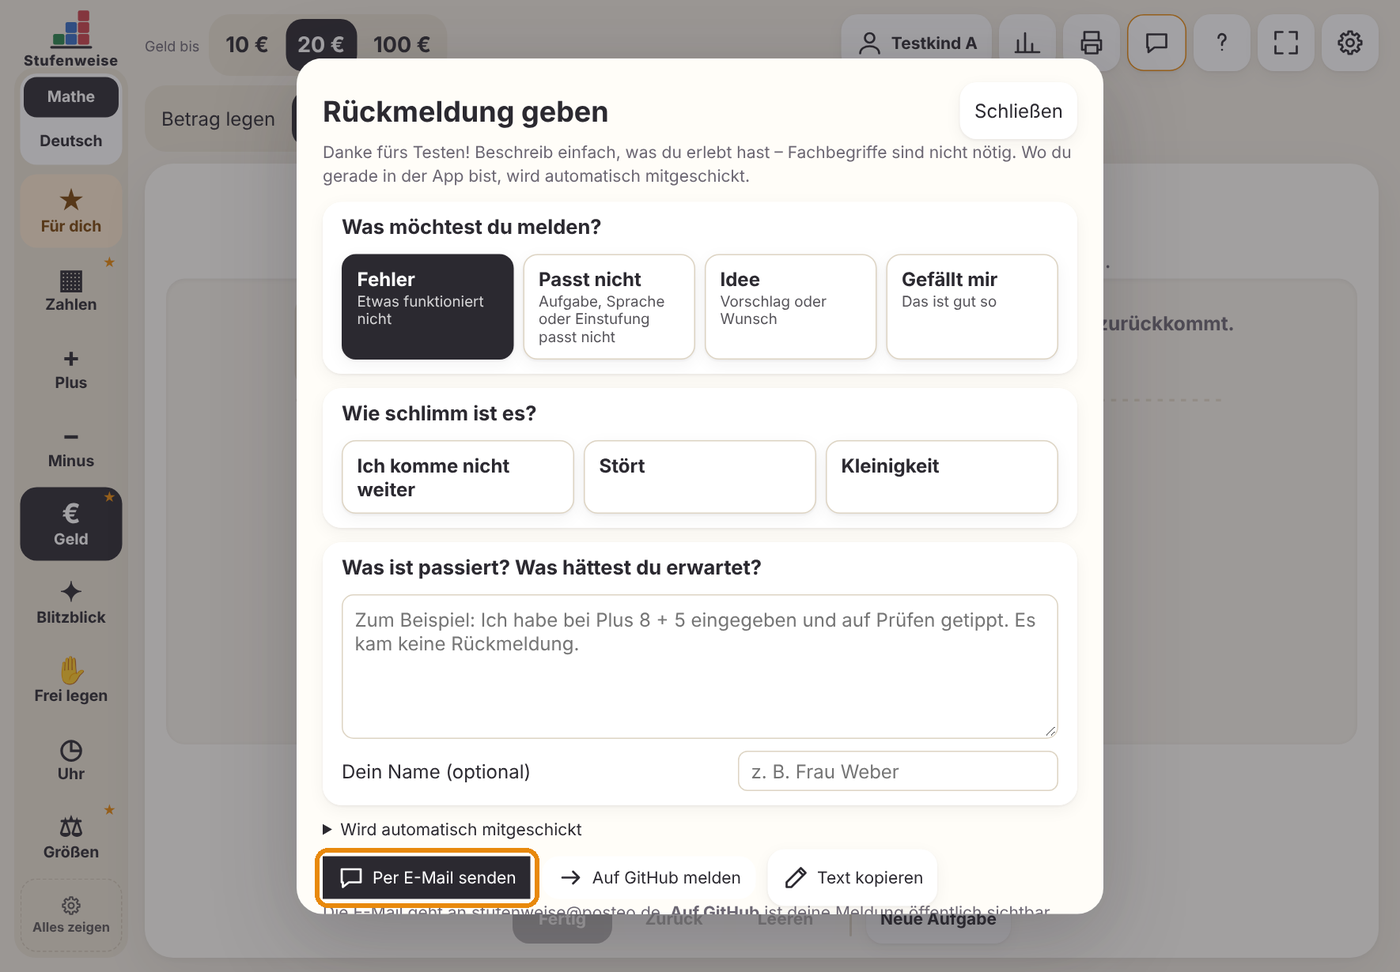
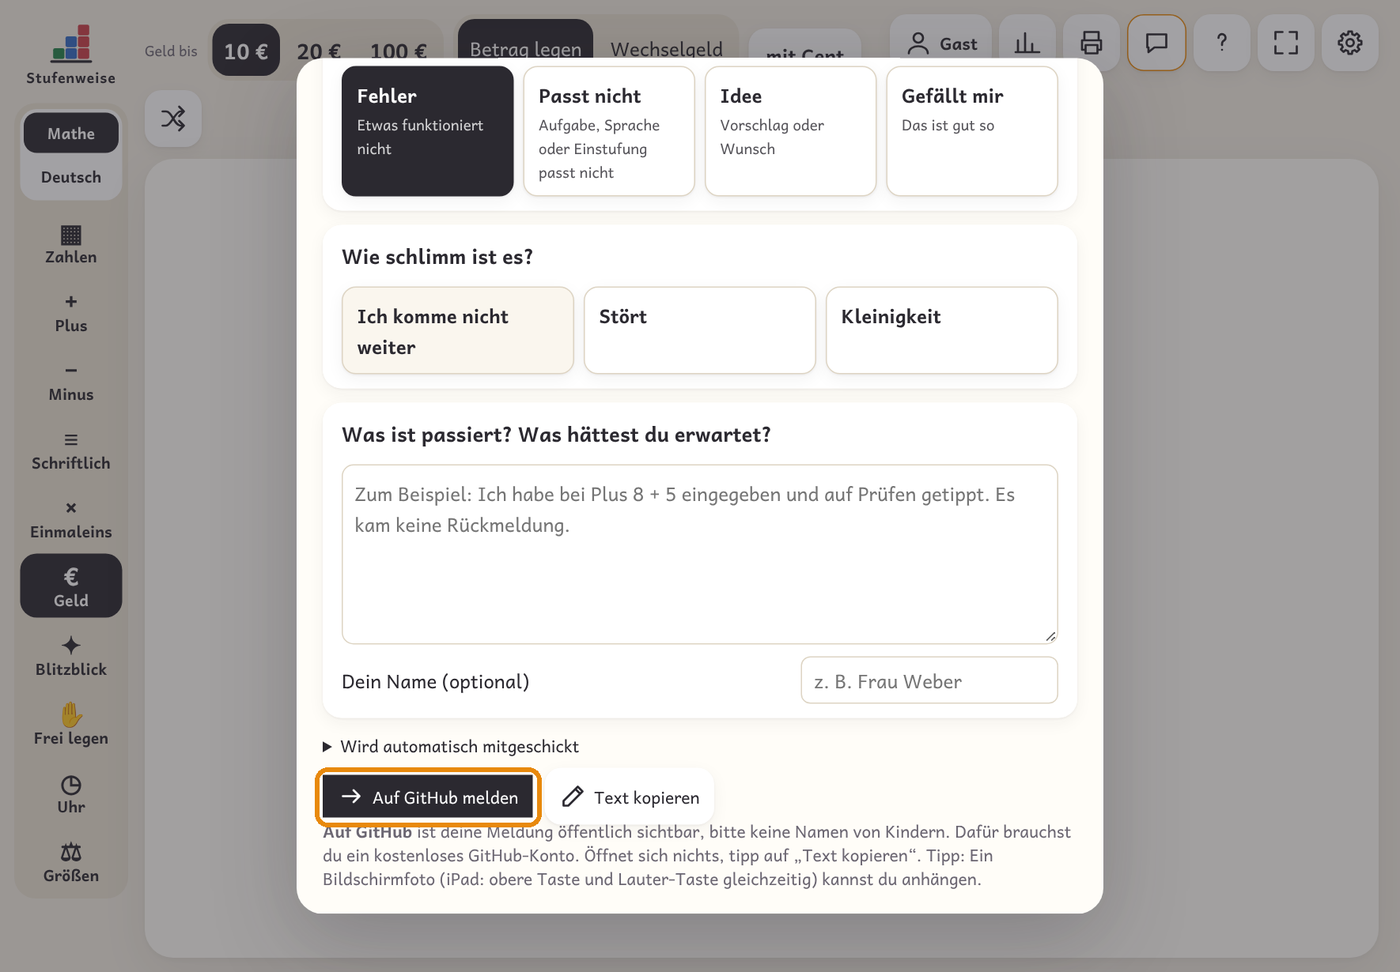
Projekt-E-Mail-Adresse entfernt: Rückmeldungen über GitHub, eigene Adresse optional in den Einstellungen
Claude-Session: https://claude.ai/code/session_01EfzymwAbpKsU1A9roa6mnc

diff --git a/index.html b/index.html
@@ -658,7 +658,8 @@ a.icon-btn{text-decoration:none}a.icon-btn:not(.primary){background:#fff;color:v
   <fieldset><legend>Ergebnisse</legend>
     <label class="row cb"><input type="checkbox" data-key="allowResults"> Ergebnisse und Mengen anzeigen erlauben</label>
     <label class="row cb"><input type="checkbox" data-key="fbOn"> Knopf „Rückmeldung“ anzeigen</label>
-    <label class="row">Rückmeldungen per E-Mail an <input type="email" data-key="fbMail" placeholder="leer = nur über GitHub" autocomplete="off" style="flex:1;max-width:260px"></label>
+    <label class="row">Rückmeldungen zusätzlich per E-Mail an <input type="email" data-key="fbMail" placeholder="leer = nur über GitHub" autocomplete="off" style="flex:1;max-width:260px"></label>
+    <p class="note">Rückmeldungen gehen über GitHub (öffentliche Meldung, kostenloses Konto nötig). Wer zusätzlich per E-Mail sammeln möchte, zum Beispiel an die Testleitung an der eigenen Schule, trägt hier eine Adresse ein. Sie bleibt nur auf diesem Gerät.</p>
     <p class="note">Aus: Die Kinder rechnen selbst. Ergebnis, Gesamtmenge und Ziffern unter der Tafel bleiben verborgen. „Ergebnis prüfen“ geht trotzdem.</p>
     <label class="row cb"><input type="checkbox" data-key="digits"> Ziffern unter der Stellenwerttafel</label>
     <label class="row cb"><input type="checkbox" data-key="numberWords"> Zahlwort zeigen (Zahlen-Modus)</label>
@@ -750,11 +751,11 @@ const FREE_COLORS = ['#c9414a','#346bc3','#27834b','#bd7618','#8054ad','#b0477c'
 const FREE_COLOR_NAMES = ['Rot','Blau','Grün','Orange','Lila','Pink'];
 const reduced = () => matchMedia('(prefers-reduced-motion: reduce)').matches || !Element.prototype.animate;
 
-const DEFAULTS = {fbMail:'stufenweise@posteo.de', allowResults:false, digits:true, numberWords:true, colors:'montessori', words:'exchange', exchangeMode:'select', subMode:'self', zones:true, help:true, speech:false, labels:true, ten:'any', hundred:'any', lock:false, timesRows:[2,5,10], wrMaterial:true, voice:'', rate:'0.9', subject:'M', lastMath:'number', numpad:'auto', ownWords:'', guide:'plus', fbOn:true, fbName:''};
+const DEFAULTS = {fbMail:'', allowResults:false, digits:true, numberWords:true, colors:'montessori', words:'exchange', exchangeMode:'select', subMode:'self', zones:true, help:true, speech:false, labels:true, ten:'any', hundred:'any', lock:false, timesRows:[2,5,10], wrMaterial:true, voice:'', rate:'0.9', subject:'M', lastMath:'number', numpad:'auto', ownWords:'', guide:'plus', fbOn:true, fbName:''};
 const STORE = 'stufenweise.settings';
 /* Übernahme aus dem alten Arbeitstitel: vorhandene Daten einmalig in die neuen Schlüssel kopieren */
 try { for(const [n, o] of [['stufenweise.settings', 'zahlenraum-werkstatt.v2'], ['stufenweise.data', 'zahlenraum-werkstatt.data']]){ if(localStorage.getItem(n) == null && localStorage.getItem(o) != null){ localStorage.setItem(n, localStorage.getItem(o)); localStorage.removeItem(o); } } } catch {}
-const settings = (() => { try { const st = JSON.parse(localStorage.getItem(STORE) || '{}'); if(!st.v3){ delete st.colors; st.v3 = true; } if(!st.v4){ delete st.speech; st.v4 = true; } return {...DEFAULTS, ...st}; } catch { return {...DEFAULTS}; } })();
+const settings = (() => { try { const st = JSON.parse(localStorage.getItem(STORE) || '{}'); if(!st.v3){ delete st.colors; st.v3 = true; } if(!st.v4){ delete st.speech; st.v4 = true; } if(!st.v5){ if(String(st.fbMail || '').includes('posteo.de')) st.fbMail = ''; st.v5 = true; } return {...DEFAULTS, ...st}; } catch { return {...DEFAULTS}; } })();
 settings.v3 = true; settings.v4 = true;
 const saveSettings = () => { try { localStorage.setItem(STORE, JSON.stringify(settings)); } catch {} };
 
@@ -5628,11 +5629,11 @@ $('#btn-settings').addEventListener('click', () => requireTeacher(openSettings))
 document.addEventListener('change', e => { const s = e.target.closest('[data-guide-pid]'); if(!s) return; const p = data.profiles.find(x => x.id === s.dataset.guidePid); if(p){ p.guide = s.value || undefined; saveData(); render(); } });
 
 /* ---------- Rückmeldung (Testphase): Art, Schwere, Text + automatischer Kontext → E-Mail ---------- */
-const APP_VERSION = '0.9.6 · 11.11.2026';
+const APP_VERSION = '0.9.7 · 11.11.2026';
 /* Danke-Seite: Namen nur mit Einverständnis eintragen, z. B. 'Vorname Nachname (Schule)' */
 const THANKS = [];
 const FB_REPO = 'https://github.com/Steffinuss/stufenweise';
-const fbMail = () => (settings.fbMail ?? 'stufenweise@posteo.de').trim();
+const fbMail = () => String(settings.fbMail || '').trim();
 const FB_ART = [['fehler', 'Fehler', 'Etwas funktioniert nicht'], ['passung', 'Passt nicht', 'Aufgabe, Sprache oder Einstufung passt nicht'], ['idee', 'Idee', 'Vorschlag oder Wunsch'], ['lob', 'Gefällt mir', 'Das ist gut so']];
 const FB_SEV = [['blockiert', 'Ich komme nicht weiter'], ['stoert', 'Stört'], ['klein', 'Kleinigkeit']];
 function fbContext(){
@@ -5824,7 +5825,7 @@ $('#help-content').innerHTML = [
   ['edit','Schrift','Die Schrift „Stufenfibel“ ist aus der Leseschrift Andika von SIL International abgeleitet (SIL Open Font License&nbsp;1.1). Geändert: Das kleine l hat unten einen Bogen, damit es sich deutlich vom großen I unterscheidet; die Schrift ist auf die Zeichen für Deutsch reduziert. Sie steckt in der App selbst, es wird nichts aus dem Internet nachgeladen.'],
   ['edit','Mit KI entwickelt','Stufenweise wurde mit Unterstützung der KI Claude (Anthropic) programmiert. Konzept, fachliche Entscheidungen und Prüfung: Stefan Hackl. Die Einstufungen sind begründete Vorschläge und ersetzen keine sonderpädagogische Diagnostik.'],
   ['user','Danke','__THANKS__'],
-  ['chat','Mitmachen','Fehler, Ideen und Lob über den Knopf „Rückmeldung“ oder per E-Mail an stufenweise@posteo.de. Öffentliche Meldungen und den Quelltext findest du auf GitHub: github.com/Steffinuss/stufenweise. Eigene Texte oder Aufgaben übernimmt Stefan nur mit deinem Einverständnis; sie stehen dann ebenfalls unter CC&nbsp;BY-SA&nbsp;4.0.']
+  ['chat','Mitmachen','Fehler, Ideen und Lob über den Knopf „Rückmeldung“: Er füllt eine Meldung auf GitHub vor (github.com/Steffinuss/stufenweise, dort liegt auch der Quelltext). Dafür braucht es ein kostenloses GitHub-Konto, und die Meldung ist öffentlich, also bitte keine Namen von Kindern. Ohne Konto: die Rückmeldung an die Person geben, die Stufenweise an deiner Schule betreut. Eigene Texte oder Aufgaben übernimmt Stefan nur mit deinem Einverständnis; sie stehen dann ebenfalls unter CC&nbsp;BY-SA&nbsp;4.0.']
 ].map(([i,h,p]) => i === 'h' ? `<h3 class="help-group">${h}</h3>` : `<div class="help-step">${icon(i)}<div><h3>${h}</h3><p>${p === '__THANKS__' ? thanksHtml() : p}</p></div></div>`).join('');
 
 if('speechSynthesis' in window) speechSynthesis.getVoices();

diff --git a/docs/anleitung.md b/docs/anleitung.md
@@ -117,13 +117,12 @@ Melde dich am besten genau dann, wenn dir etwas auffällt. Die App schickt autom
 2. Auswählen: **Fehler**, **Passt nicht**, **Idee** oder **Gefällt mir**.
 3. Bei Fehlern und „Passt nicht“ angeben, wie schlimm es ist.
 4. In eigenen Worten schreiben, was passiert ist und was du erwartet hättest.
-5. Absenden, auf einem von zwei Wegen:
-    - **Auf GitHub melden:** öffnet eine fertig ausgefüllte Meldung (Issue). Dafür brauchst du ein kostenloses GitHub-Konto. Die Meldung ist öffentlich, also bitte keine Namen von Kindern.
-    - **Per E-Mail senden:** öffnet deine Mail-App mit fertigem Text an stufenweise@posteo.de.
+5. **Auf GitHub melden** tippen: Das öffnet eine fertig ausgefüllte Meldung (Issue), du musst sie nur noch absenden. Dafür brauchst du ein kostenloses GitHub-Konto. Die Meldung ist öffentlich, also bitte keine Namen von Kindern.
+    - Optional **Per E-Mail senden:** Diesen Knopf gibt es nur, wenn in den Einstellungen eine Adresse eingetragen ist, zum Beispiel die der Testleitung an deiner Schule. Die Adresse bleibt nur auf deinem Gerät.
 
 ![Rückmeldeformular](bilder/14_rueckmeldung.png)
 
-Öffnet sich nichts, tipp auf **Text kopieren** und füge den Text in eine Mail oder eine [neue Meldung auf GitHub](https://github.com/Steffinuss/stufenweise/issues/new) ein. Die Mail-Adresse lässt sich in den Einstellungen ändern oder leeren.
+Öffnet sich nichts, tipp auf **Text kopieren** und füge den Text in eine [neue Meldung auf GitHub](https://github.com/Steffinuss/stufenweise/issues/new) ein.
 
 ## Auf dem iPad: als App auf den Home-Bildschirm und aktualisieren
 

diff --git a/README.md b/README.md
@@ -53,7 +53,7 @@ Stufenweise ist ein gemeinsames Projekt, kein Produkt.
 Fehler, Ideen und Lob:
 
 - **[Neue Meldung auf GitHub](https://github.com/Steffinuss/stufenweise/issues/new)** (kostenloses GitHub-Konto nötig, öffentlich sichtbar, bitte keine Namen von Kindern). Am einfachsten über den Knopf „Rückmeldung“ in der App, der die Meldung schon vorausfüllt.
-- Ohne GitHub-Konto: per E-Mail an stufenweise@posteo.de.
+- Ohne GitHub-Konto: die Rückmeldung an die Person geben, die Stufenweise an deiner Schule betreut. Wer an einer Schule Rückmeldungen sammelt, kann in den Einstellungen eine eigene E-Mail-Adresse eintragen; dann bietet der Knopf „Rückmeldung“ zusätzlich „Per E-Mail senden“ an.
 
 ## Mit KI entwickelt
 
